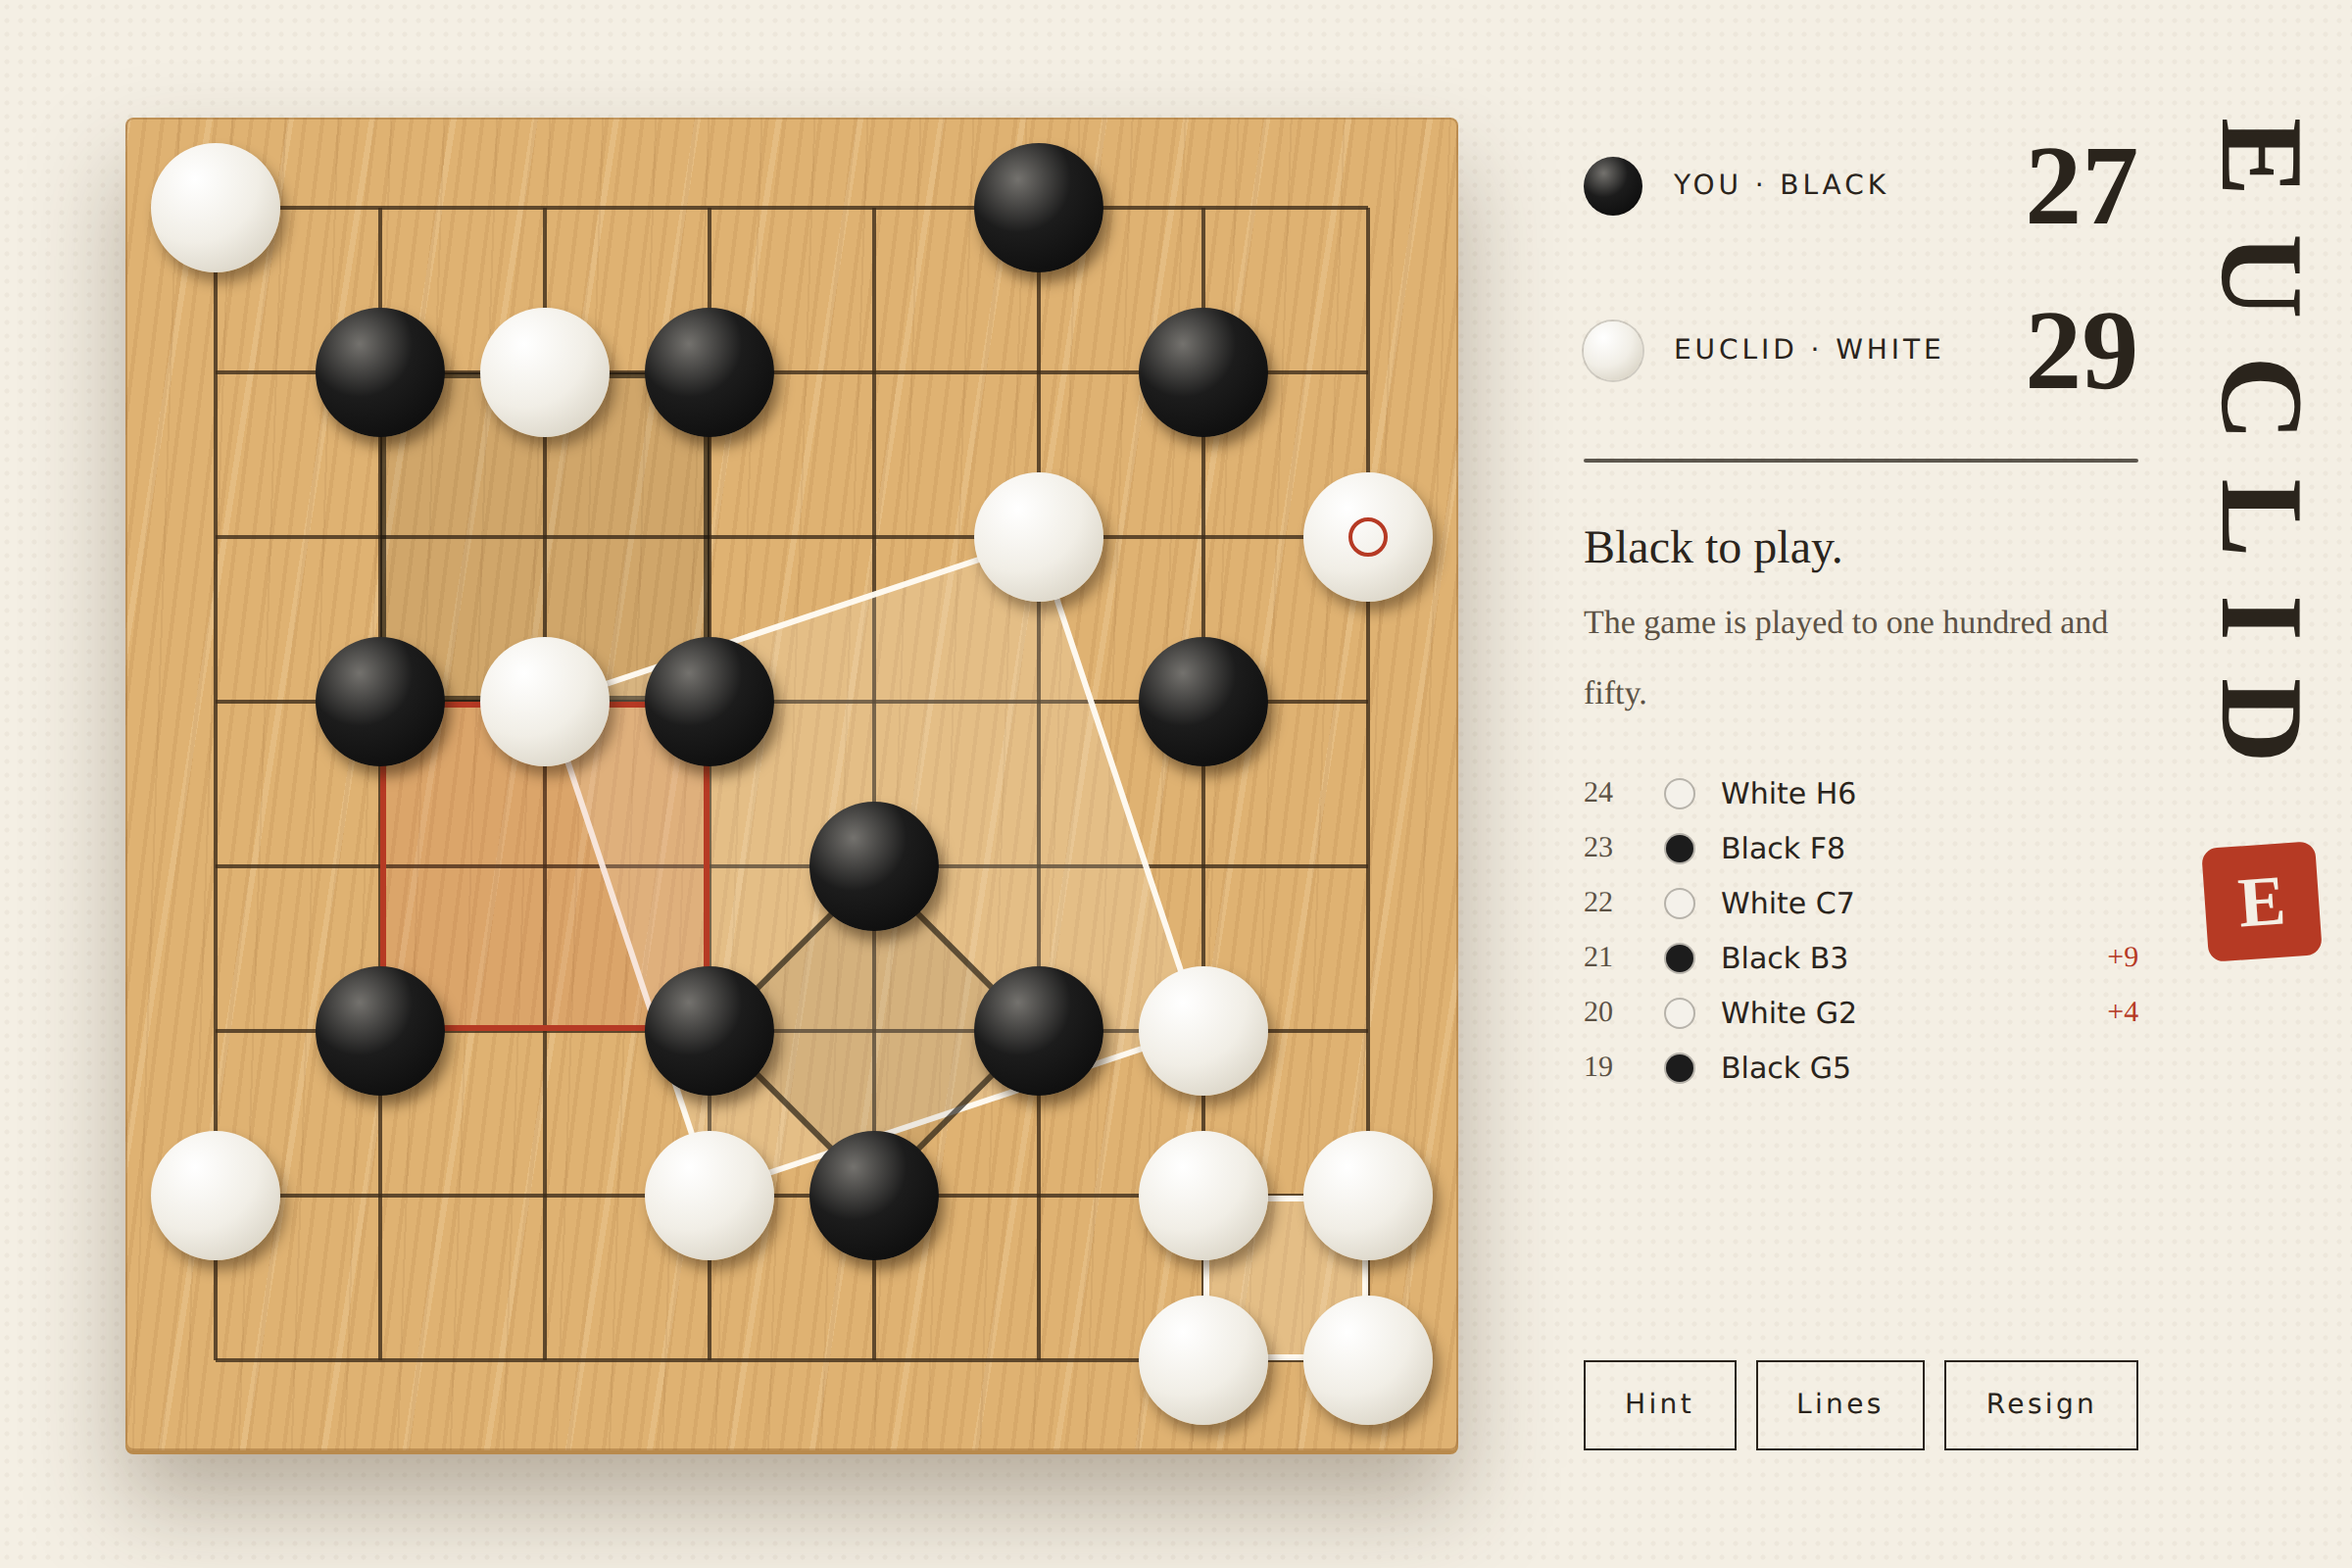
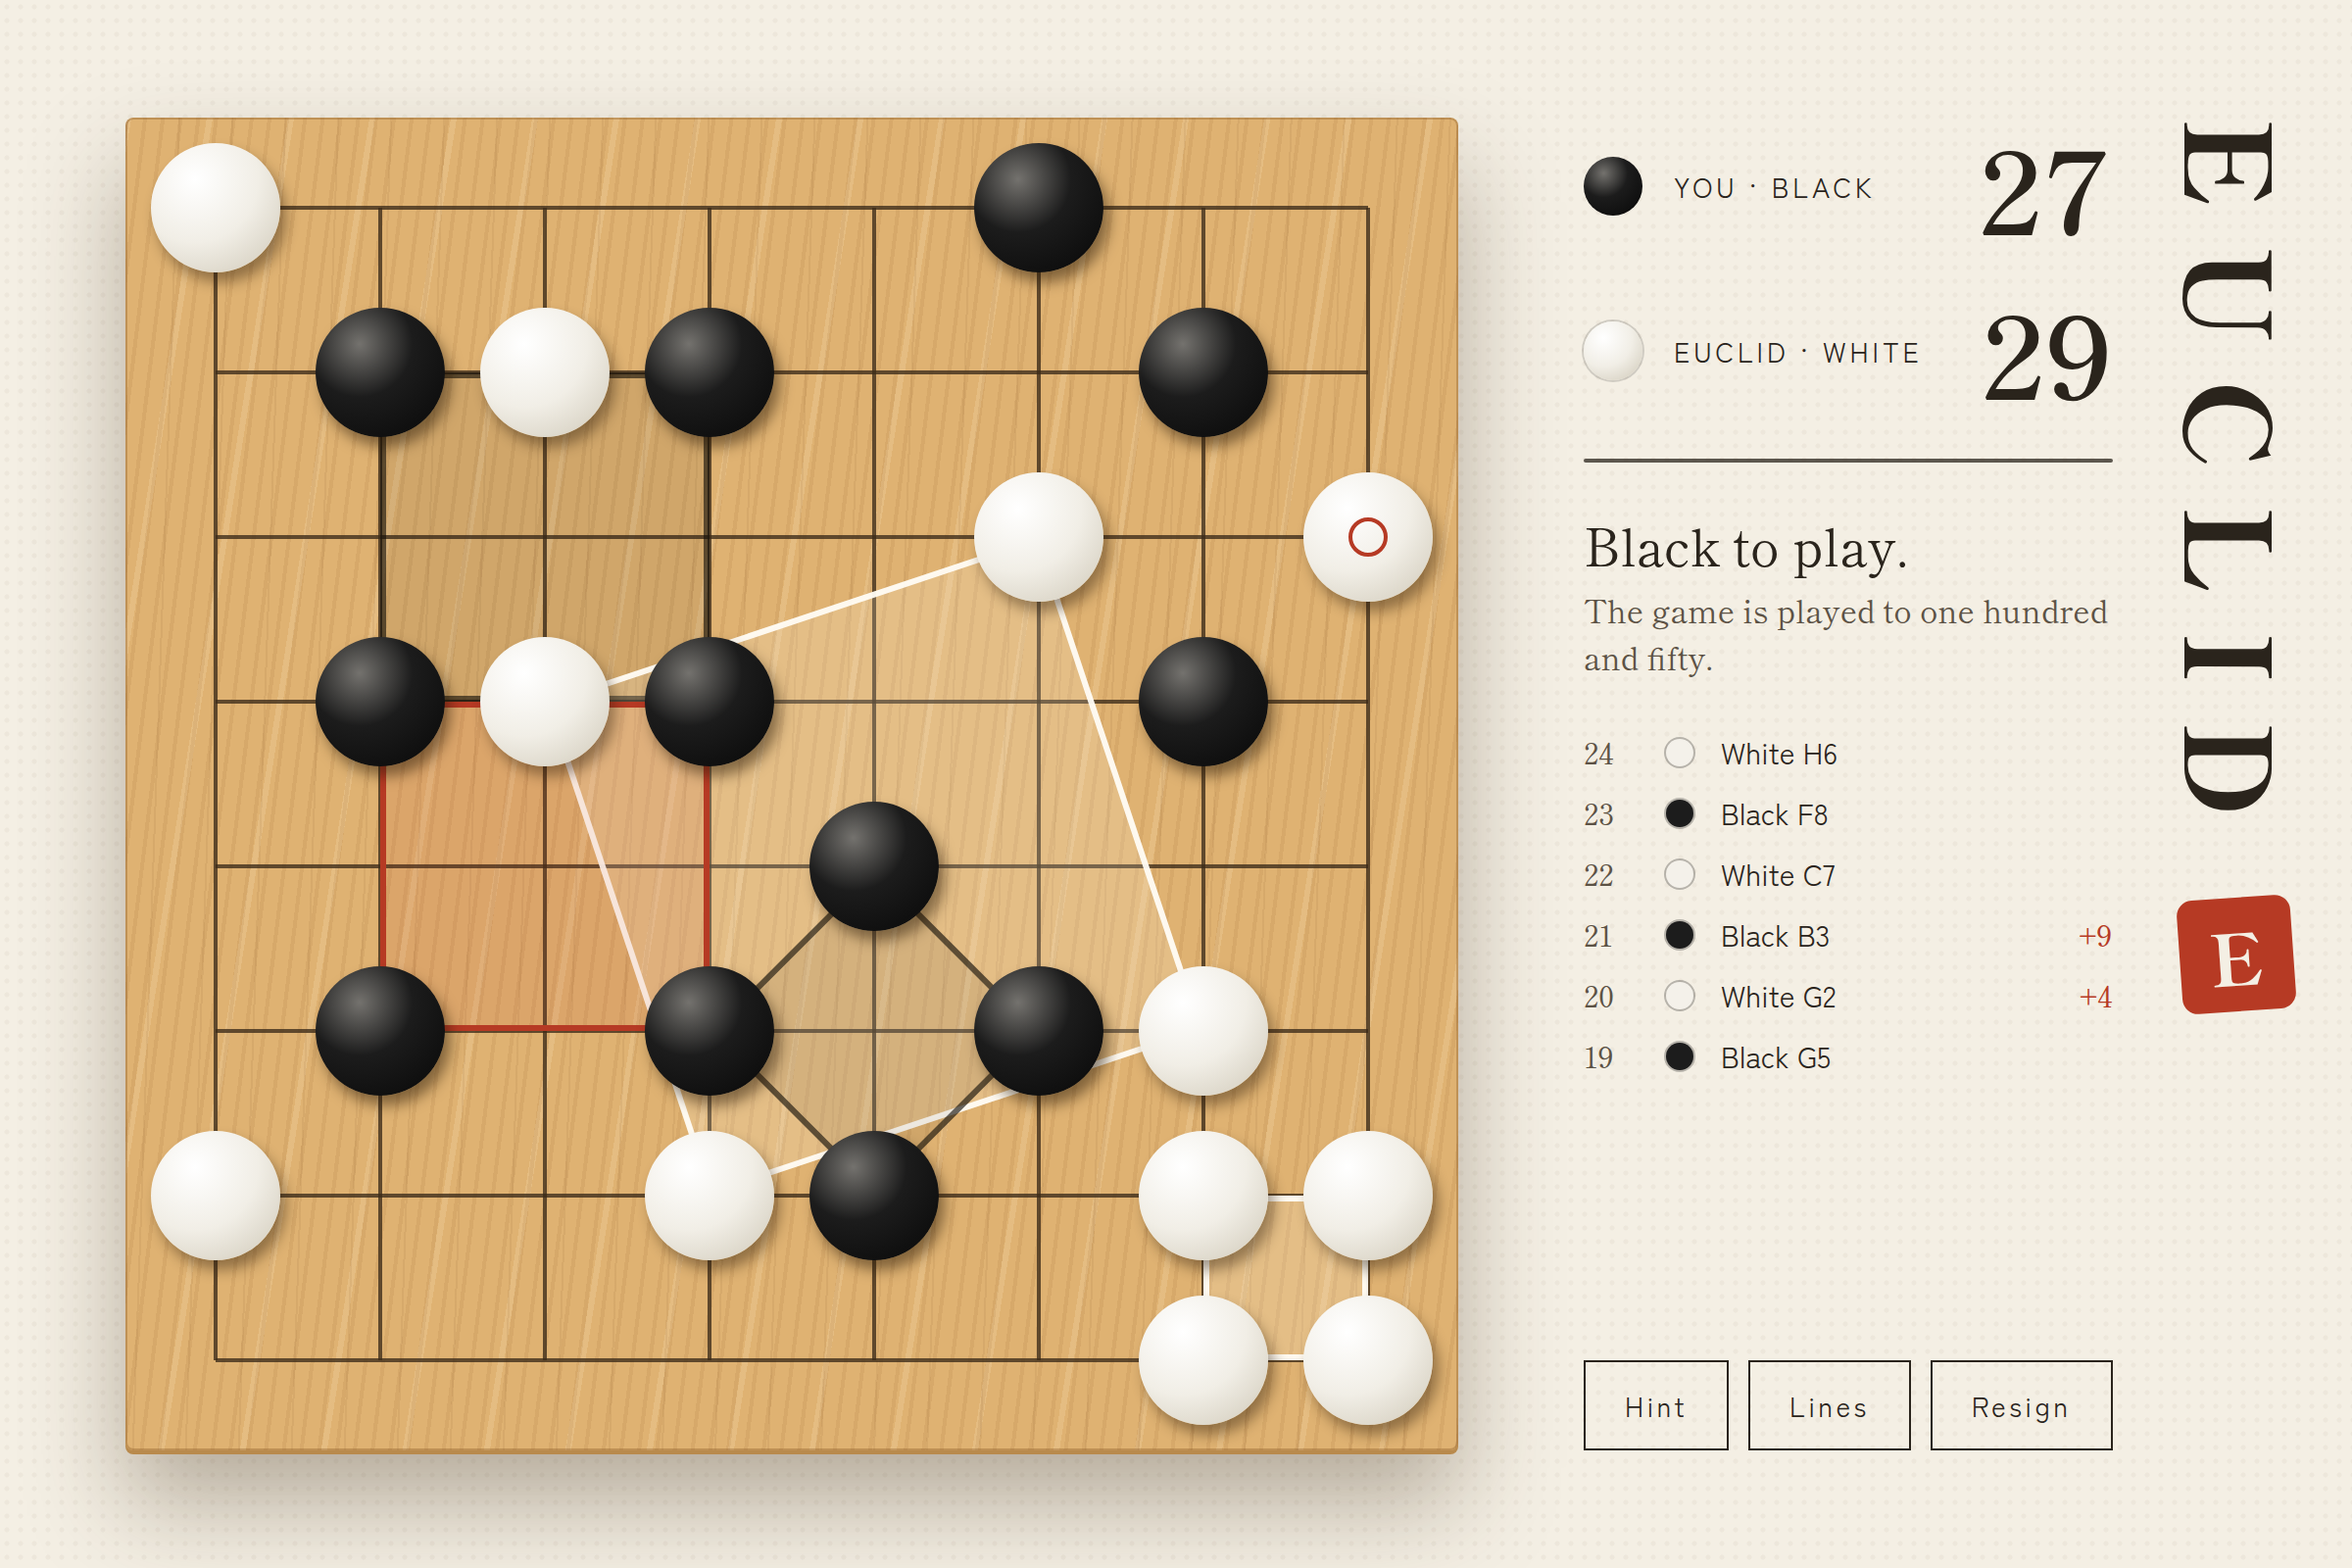
Give the Kaya tagline its own line height

diff --git a/designs/source/03-kaya.dc.html b/designs/source/03-kaya.dc.html
@@ -54,7 +54,7 @@ a{color:#B63A24}a:hover{color:#8A2A18}
         <div style="font-family: 'Shippori Mincho', serif; font-size: 58px; font-weight: 600; line-height: 1">29</div>
       </div>
       <div style="height: 2px; border-radius: 2px; background: #2A241C; opacity: .75"></div>
-      <div style="font-family: 'Shippori Mincho', serif; font-size: 24px; line-height: 1.5">Black to play.<br><span style="font-size: 17px; color: #5C5245">The game is played to one hundred and fifty.</span></div>
+      <div style="display: flex; flex-direction: column; gap: 6px"><div style="font-family: 'Shippori Mincho', serif; font-size: 26px; line-height: 1.2">Black to play.</div><div style="font-family: 'Shippori Mincho', serif; font-size: 16px; line-height: 1.5; color: #5C5245">The game is played to one hundred and fifty.</div></div>
       <div style="display: flex; flex-direction: column; gap: 10px">
         <sc-for list="{{recent}}" as="r" hint-placeholder-count="5">
           <div style="display: flex; align-items: center; gap: 14px; font-size: 15px">
